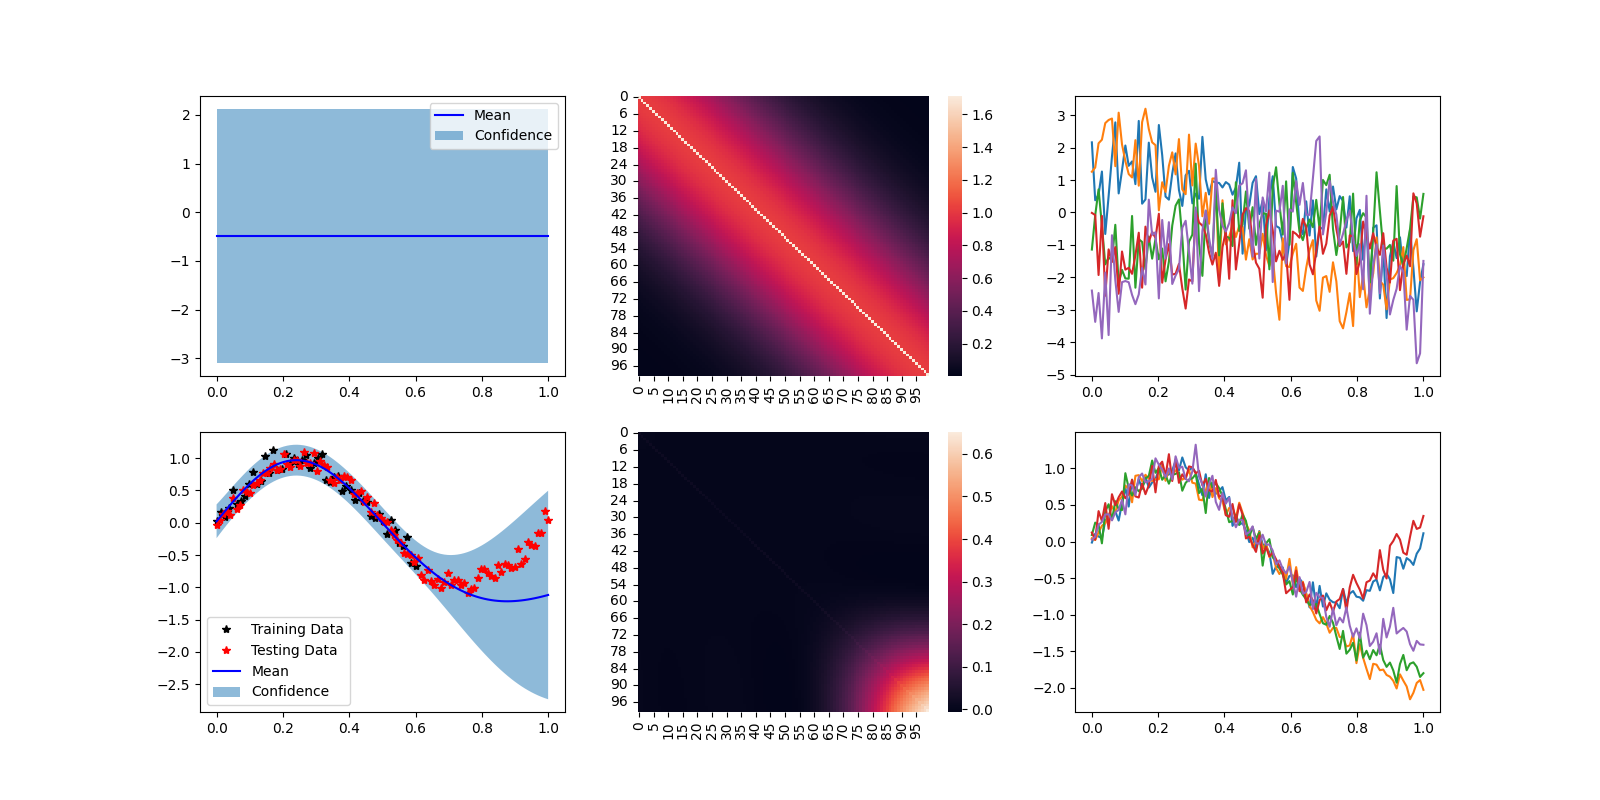
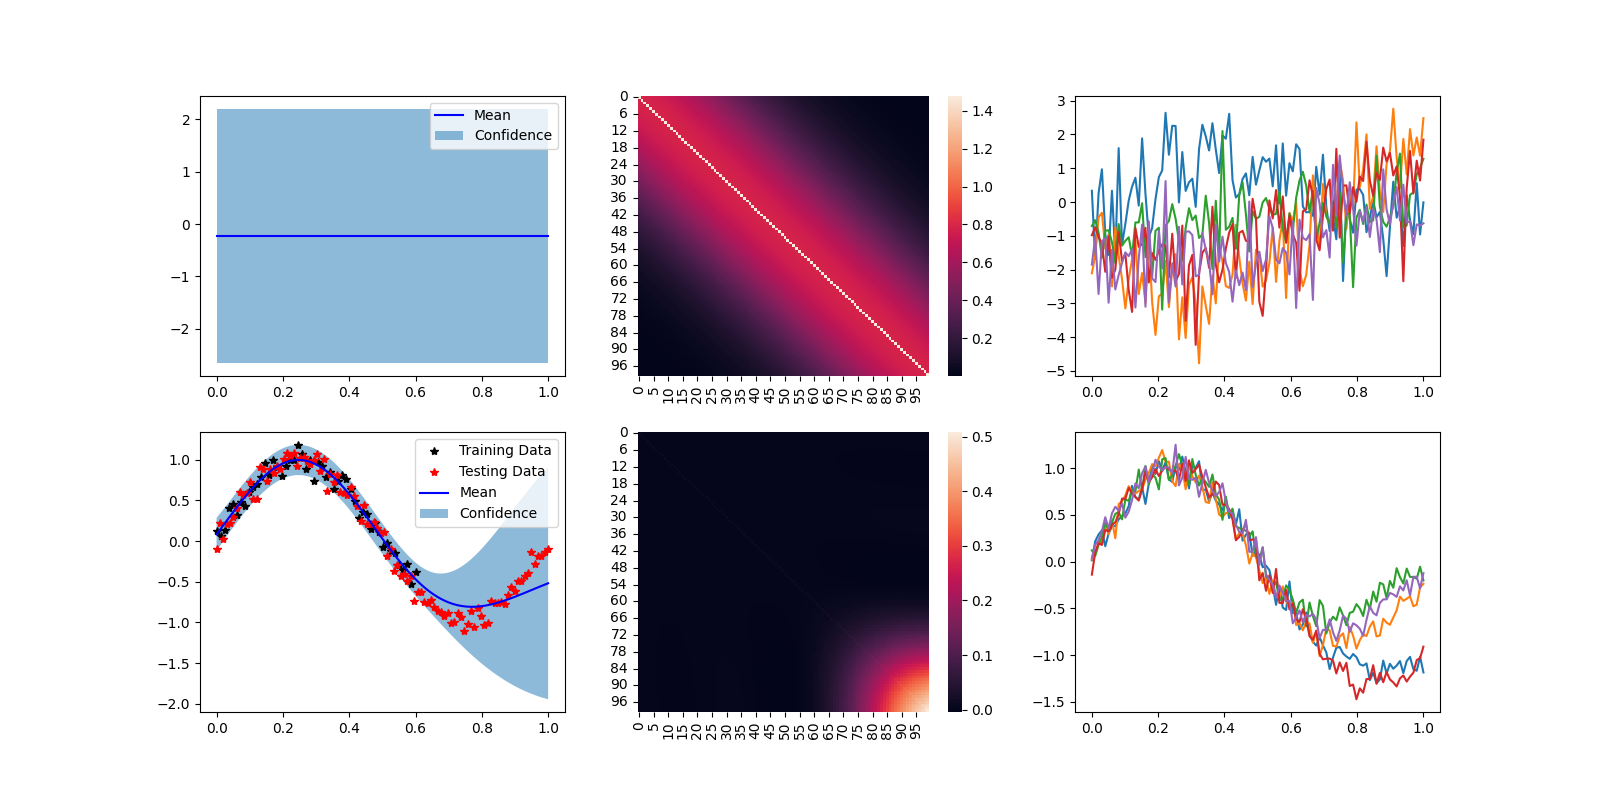
Adding MOGP

diff --git a/main.py b/main.py
@@ -31,13 +31,29 @@ class SpectralMixtureGPModel(gpytorch.models.ExactGP):
         covar_x = self.covar_module(x)
         return gpytorch.distributions.MultivariateNormal(mean_x, covar_x)
 
+class MultitaskGPModel(gpytorch.models.ExactGP):
+    def __init__(self, train_x, train_y, likelihood):
+        super(MultitaskGPModel, self).__init__(train_x, train_y, likelihood)
+        self.mean_module = gpytorch.means.MultitaskMean(
+                gpytorch.means.ConstantMean(), num_tasks=4
+                )
+        self.covar_module = gpytorch.kernels.MultitaskKernel(
+                gpytorch.kernels.RBFKernel(), num_tasks=4, rank=4
+                )
+
+    def forward(self, x):
+        mean_x = self.mean_module(x)
+        covar_x = self.covar_module(x)
+        return gpytorch.distributions.MultitaskMultivariateNormal(mean_x, covar_x)
+
+
 def train(model, likelihood, training_iter=1000):
     # Use the Adam optmizer  
     optimizer = torch.optim.Adam(model.parameters(), lr=0.1)
-    scheduler = torch.optim.lr_scheduler.MultiStepLR(
+    scheduler = torch.optim.lr_scheduler.ExponentialLR(
             optimizer=optimizer,
-            milestones=[.5*training_iter, .75*training_iter],
-            gamma=0.1
+            gamma=0.99,
+            verbose=False
             )
     # "Loss" for GPs - the marginal log likelihood
     mll = gpytorch.mlls.ExactMarginalLogLikelihood(likelihood, model)
@@ -60,6 +76,7 @@ def train(model, likelihood, training_iter=1000):
 
     plt.plot(loss_array)
     plt.savefig("./figures/learning_curve.png")
+    plt.close()
 
 # Make predictions with the model
 def predict(model, likelihood, test_x):
@@ -128,17 +145,83 @@ def plot(model, likelihood, test_x, test_y):
     final_mae = gpytorch.metrics.mean_absolute_error(y_posterior, test_y)
 
     print(f'Untrained model MAE: {init_mae:.2f}, \nTrained model MAE: {final_mae:.2f}')
-# Set Up training data 
-train_x = torch.linspace(0, 0.6, 50)
-train_y = torch.sin(train_x * 2 * np.pi) + torch.randn(train_x.size()) * np.sqrt(0.01)
-test_x = torch.linspace(0, 1, 100)
-test_y = torch.sin(test_x * 2 * np.pi) + torch.randn(test_x.size()) * np.sqrt(0.01)
-# The likelihood
-likelihood = gpytorch.likelihoods.GaussianLikelihood()
-model = ExactGPModel(train_x, train_y, likelihood)
-# model = SpectralMixtureGPModel(train_x, train_y, likelihood)
 
-plot(model, likelihood, test_x, test_y)
+def correlation_from_covariance(covariance):
+    v = np.sqrt(np.diag(covariance))
+    outer_v = np.outer(v, v)
+    correlation = covariance / outer_v
+    correlation[covariance == 0] = 0
+    return correlation
+# Set Up training data 
+
+def y(x):
+    return torch.stack([
+        torch.sin(x * 2 * torch.pi) + torch.randn(x.size()) * np.sqrt(0.04),
+        torch.sign(torch.sin(x * 4 * torch.pi)) + torch.randn(x.size()) * np.sqrt(0.04),
+        x + torch.rand(x.size()) * np.sqrt(0.04),
+        1 + torch.rand(x.size()) * np.sqrt(0.04),
+        ], -1)
+train_x = torch.linspace(0, 0.6, 50)
+train_y = y(train_x)
+test_x = torch.linspace(0, 1, 100)
+test_y = y(test_x)
+# The likelihood
+likelihood = gpytorch.likelihoods.MultitaskGaussianLikelihood(num_tasks=4)
+model = MultitaskGPModel(train_x, train_y, likelihood)
+# model = SpectralMixtureGPModel(train_x, train_y, likelihood)
+train(model, likelihood)
+
+# Set into eval mode
+model.eval()
+likelihood.eval()
+# Make predictions
+with torch.no_grad(), gpytorch.settings.fast_pred_var():
+    predictions = likelihood(model(test_x))
+    mean = predictions.mean
+    lower, upper = predictions.confidence_region()
+# Number of tasks
+n_tasks = 4  # Change this to the number of tasks you have
+
+# Calculate the number of rows and columns for the subplot grid
+n_rows = int(n_tasks ** 0.5)
+n_cols = n_tasks // n_rows + (n_tasks % n_rows > 0)
+
+# Initialize plots with squared subplots
+fig, axes = plt.subplots(n_rows, n_cols, figsize=(10, 10))
+
+# Flatten the axes array for easier iteration
+axes = axes.flatten()
+
+# Iterate over tasks
+for i in range(n_tasks):
+    ax = axes[i]
+
+    # Plot training data as black stars
+    ax.plot(train_x.detach().numpy(), train_y[:, i].detach().numpy(), 'k*')
+    ax.plot(test_x.detach().numpy(), test_y[:, i].detach().numpy(), 'r*')
+    
+    # Predictive mean as blue line
+    ax.plot(test_x.numpy(), mean[:, i].numpy(), 'b')
+    
+    # Shade in confidence
+    ax.fill_between(test_x.numpy(), lower[:, i].numpy(), upper[:, i].numpy(), alpha=0.5)
+    
+    ax.legend(['Training Data', 'Testing Data', 'Mean', 'Confidence'])
+    ax.set_title(f'Observed Values (Task {i+1})')
+
+# Remove any empty subplots if n_tasks is not a perfect square
+for i in range(n_tasks, n_rows * n_cols):
+    fig.delaxes(axes[i])
+
+plt.tight_layout()
+plt.show()
+
+H = model.covar_module.task_covar_module.covar_factor.detach().numpy()
+
+sns.heatmap(correlation_from_covariance(H @ H.T), annot=True)
+plt.show()
+
+
 # Save The Model
 torch.save(model.state_dict(), './models/model_state.pth')
 
